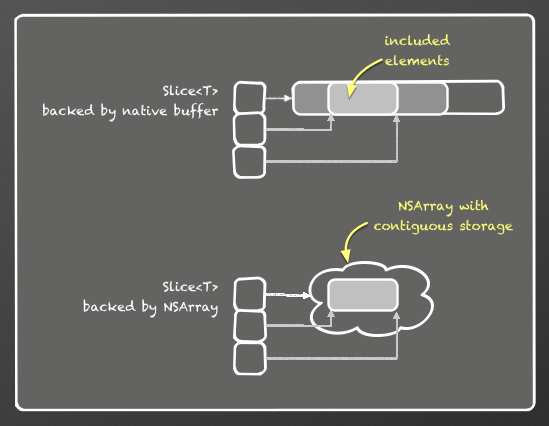
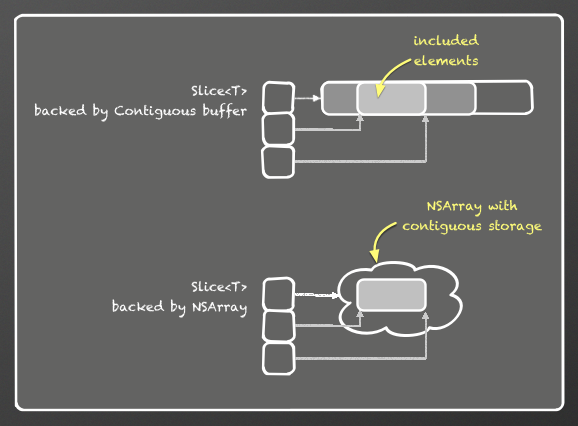
[docs] Rename NativeArray => ContiguousArray
Per API review feedback.  Code changes are to come.

Swift SVN r18138

diff --git a/docs/Arrays.rst b/docs/Arrays.rst
@@ -44,7 +44,7 @@ element type: when it is statically known that the element type is not
 a class, code and checks accounting for the possibility of wrapping an
 ``NSArray`` are eliminated.  An ``Array`` of Swift value types always
 uses the most efficient possible representation, identical to that of
-``NativeArray``.
+``ContiguousArray``.
 
 Components
 ----------
@@ -53,25 +53,25 @@ Swift provides three generic array types, all of which have amortized
 O(1) growth.  In this document, statements about **ArrayType** apply
 to all three of the components.
 
-* ``NativeArray<T>`` is the fastest and simplest of the three—use this
+* ``ContiguousArray<T>`` is the fastest and simplest of the three—use this
   when you need "C array" performance.  The elements of a
-  ``NativeArray`` are always stored contiguously in memory.
+  ``ContiguousArray`` are always stored contiguously in memory.
 
-  .. image:: NativeArray.png
+  .. image:: ContiguousArray.png
 
-* ``Array<T>`` is like ``NativeArray<T>``, but optimized for efficient
+* ``Array<T>`` is like ``ContiguousArray<T>``, but optimized for efficient
   conversions from Cocoa and back—when ``T`` can be a class type,
   ``Array<T>`` can be backed by the (potentially non-contiguous)
   storage of an arbitrary ``NSArray`` rather than by a Swift
-  ``NativeArray``.  ``Array<T>`` also supports up- and down- casts
+  ``ContiguousArray``.  ``Array<T>`` also supports up- and down- casts
   between arrays of related class types.  When ``T`` is known to be a
   non-class type, the performance of ``Array<T>`` is identical to that
-  of ``NativeArray<T>``.
+  of ``ContiguousArray<T>``.
 
   .. image:: Array.png
 
 * ``Slice<T>`` is a subrange of some ``Array<T>`` or
-  ``NativeArray<T>``; it's the result of using slice notation,
+  ``ContiguousArray<T>``; it's the result of using slice notation,
   e.g. ``a[7...21]`` on any Swift array ``a``.  A slice always has
   contiguous storage and "C array" performance.  Slicing an
   *ArrayType* is O(1) unless the source is an ``Array<T>`` backed by
@@ -248,7 +248,7 @@ Bridging To Objective-C
   bridged_.
 
 * An ``NSArray`` can be constructed from any bridged_ ``Array<T>`` or
-  ``NativeArray<T>``.  The elements of the resulting ``NSArray`` have
+  ``ContiguousArray<T>``.  The elements of the resulting ``NSArray`` have
   dynamic type ``U``, where ``T`` is bridged to ``U``.
 
   .. Admonition:: Implementation Notes
